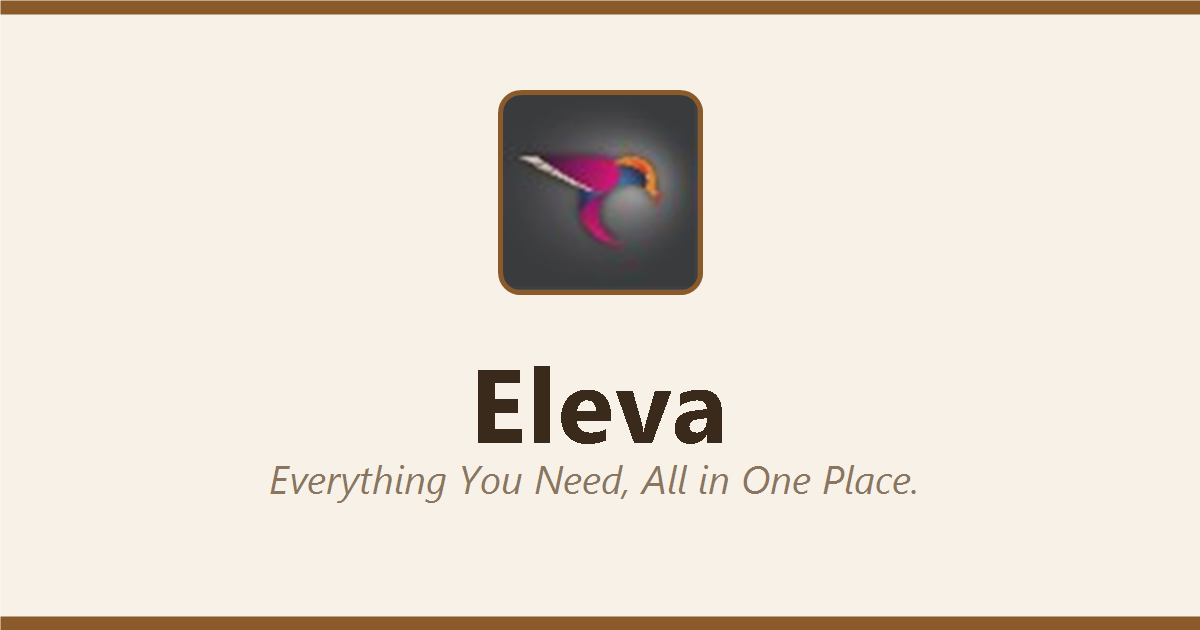
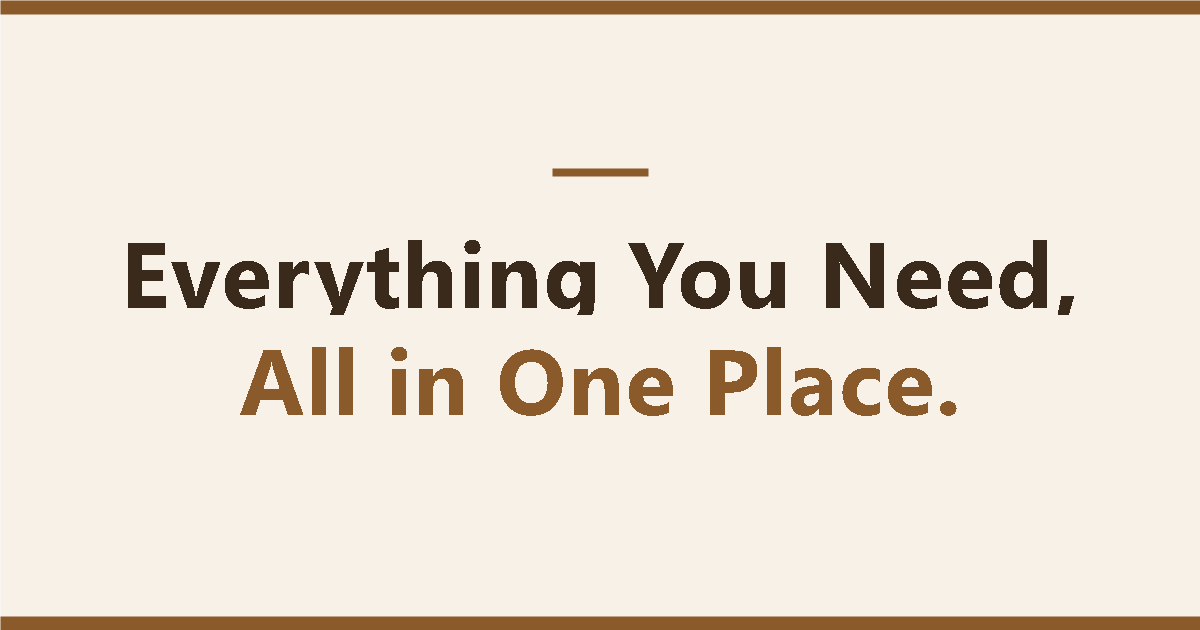
Redesign preview card: tagline only, split two lines, two-tone theme style
Drop the logo and store name from the shared-link card. It now shows just the tagline, split at the comma (or balanced across two lines), with the last line in the theme's accent color and an eyebrow bar - auto-fit to width. Both the dynamic generator and the static fallback og.png updated.

Changed region(s): [[0.0925, 0.1206, 0.8942, 0.5127], [0.185, 0.5429, 0.8017, 0.7841]]

diff --git a/src/lib/ogCard.ts b/src/lib/ogCard.ts
@@ -1,9 +1,9 @@
 // Shared-link preview card, generated in the browser so it always matches the
-// store's CURRENT theme + branding.
+// store's CURRENT theme + tagline.
 //
 // A static site can't render a per-store preview at request time (social
 // scrapers don't run JS), so instead the admin app draws a 1200×630 card on a
-// canvas whenever the theme/branding changes and uploads it to Supabase Storage
+// canvas whenever the theme/tagline changes and uploads it to Supabase Storage
 // at a STABLE path. The og:image meta tag (baked at build) points at that path,
 // so overwriting the file updates the preview everywhere without a rebuild.
 
@@ -20,34 +20,17 @@ export function ogCardUrl(supabaseUrl: string): string {
   return `${supabaseUrl.replace(/\/$/, '')}/storage/v1/object/public/${OG_BUCKET}/${OG_CARD_PATH}`;
 }
 
-function roundRectPath(ctx: CanvasRenderingContext2D, x: number, y: number, w: number, h: number, r: number) {
-  ctx.beginPath();
-  ctx.moveTo(x + r, y);
-  ctx.arcTo(x + w, y, x + w, y + h, r);
-  ctx.arcTo(x + w, y + h, x, y + h, r);
-  ctx.arcTo(x, y + h, x, y, r);
-  ctx.arcTo(x, y, x + w, y, r);
-  ctx.closePath();
-}
-
-// Load a (possibly cross-origin) image without tainting the canvas: we fetch the
-// bytes ourselves and decode from a blob. Returns null if it can't be loaded.
-async function loadBadge(url: string): Promise<CanvasImageSource | null> {
-  try {
-    const resp = await fetch(url, { mode: 'cors' });
-    if (!resp.ok) return null;
-    const blob = await resp.blob();
-    if (typeof createImageBitmap === 'function') return await createImageBitmap(blob);
-    return await new Promise((resolve) => {
-      const img = new Image();
-      const obj = URL.createObjectURL(blob);
-      img.onload = () => resolve(img);
-      img.onerror = () => resolve(null);
-      img.src = obj;
-    });
-  } catch {
-    return null;
+// Split a tagline into display lines: at commas (keeping the comma), otherwise
+// balance the words across two lines.
+function splitToLines(text: string): string[] {
+  if (text.includes(',')) {
+    const parts = text.split(',').map((s) => s.trim()).filter(Boolean);
+    return parts.map((p, i) => (i < parts.length - 1 ? `${p},` : p));
   }
+  const words = text.split(/\s+/).filter(Boolean);
+  if (words.length < 4) return [text];
+  const mid = Math.ceil(words.length / 2);
+  return [words.slice(0, mid).join(' '), words.slice(mid).join(' ')];
 }
 
 async function drawCard(settings: Settings): Promise<Blob | null> {
@@ -56,8 +39,6 @@ async function drawCard(settings: Settings): Promise<Blob | null> {
   const bg = v['--color-bg'];
   const primary = v['--color-primary'];
   const text = v['--color-text'];
-  const muted = v['--color-muted'];
-  const card = v['--color-card'];
 
   const canvas = document.createElement('canvas');
   canvas.width = 1200;
@@ -65,60 +46,48 @@ async function drawCard(settings: Settings): Promise<Blob | null> {
   const ctx = canvas.getContext('2d');
   if (!ctx) return null;
 
-  // Background + theme accent stripes.
+  // Background + thin theme accent stripes top & bottom.
   ctx.fillStyle = bg;
   ctx.fillRect(0, 0, 1200, 630);
   ctx.fillStyle = primary;
   ctx.fillRect(0, 0, 1200, 14);
   ctx.fillRect(0, 616, 1200, 14);
 
-  // Logo / favicon badge (centered near the top). Prefer the logo (usually
-  // larger and nicer on a card); fall back to the favicon.
-  const badgeUrl = settings.logo_url || settings.favicon_url;
-  let hasBadge = false;
-  if (badgeUrl) {
-    const img = await loadBadge(badgeUrl);
-    if (img) {
-      const bs = 200;
-      const bx = (1200 - bs) / 2;
-      const by = 92;
-      const r = 40;
-      roundRectPath(ctx, bx, by, bs, bs, r);
-      ctx.fillStyle = card;
-      ctx.fill();
-      ctx.save();
-      roundRectPath(ctx, bx, by, bs, bs, r);
-      ctx.clip();
-      // Contain-fit so a non-square logo isn't stretched.
-      const d = img as unknown as { width?: number; height?: number; naturalWidth?: number; naturalHeight?: number };
-      const iw = d.naturalWidth || d.width || bs;
-      const ih = d.naturalHeight || d.height || bs;
-      const pad = 16;
-      const scale = Math.min((bs - pad * 2) / iw, (bs - pad * 2) / ih);
-      const dw = iw * scale;
-      const dh = ih * scale;
-      ctx.drawImage(img, bx + (bs - dw) / 2, by + (bs - dh) / 2, dw, dh);
-      ctx.restore();
-      roundRectPath(ctx, bx, by, bs, bs, r);
-      ctx.lineWidth = 5;
-      ctx.strokeStyle = primary;
-      ctx.stroke();
-      hasBadge = true;
-    }
-  }
+  // Just the tagline — split into lines, rendered in a unique two-tone style.
+  const raw = (settings.tagline || settings.store_name || 'OPEN STORE').trim();
+  const lines = splitToLines(raw);
 
-  // Store name (theme text color) + tagline (theme muted color).
+  const maxWidth = 980;
+  const fontOf = (px: number) => `800 ${px}px system-ui, 'Segoe UI', Roboto, sans-serif`;
   ctx.textAlign = 'center';
-  ctx.fillStyle = text;
-  ctx.font = "700 78px system-ui, 'Segoe UI', Roboto, sans-serif";
-  ctx.fillText(settings.store_name || 'OPEN STORE', 600, hasBadge ? 400 : 330, 1080);
+  ctx.textBaseline = 'alphabetic';
 
-  const tag = (settings.tagline || '').trim();
-  if (tag) {
-    ctx.fillStyle = muted;
-    ctx.font = "italic 30px system-ui, 'Segoe UI', Roboto, sans-serif";
-    ctx.fillText(tag, 600, hasBadge ? 470 : 400, 1060);
+  // Auto-fit so the widest line stays within the card.
+  let fs = 96;
+  while (fs > 44) {
+    ctx.font = fontOf(fs);
+    const widest = Math.max(...lines.map((l) => ctx.measureText(l).width));
+    if (widest <= maxWidth) break;
+    fs -= 4;
   }
+  ctx.font = fontOf(fs);
+
+  const lineH = Math.round(fs * 1.16);
+  const blockH = lineH * lines.length;
+  const firstBaseline = Math.round((630 - blockH) / 2 + fs * 0.8);
+
+  // Eyebrow accent bar above the text.
+  const barW = 96;
+  const barH = 8;
+  ctx.fillStyle = primary;
+  ctx.fillRect((1200 - barW) / 2, firstBaseline - Math.round(fs * 0.8) - 46, barW, barH);
+
+  // Lines: last line in the theme's primary color for a stylish two-tone look.
+  lines.forEach((line, i) => {
+    ctx.font = fontOf(fs);
+    ctx.fillStyle = i === lines.length - 1 ? primary : text;
+    ctx.fillText(line, 600, firstBaseline + i * lineH, maxWidth + 40);
+  });
 
   return await new Promise<Blob | null>((resolve) => canvas.toBlob((b) => resolve(b), 'image/png'));
 }
@@ -144,7 +113,7 @@ export async function refreshOgCard(settings?: Settings): Promise<void> {
 }
 
 // Refresh the card at most once per page load — called when the admin opens the
-// panel, so the preview always reflects the current logo, theme and name pulled
+// panel, so the preview always reflects the current theme and tagline pulled
 // from storage, without the owner having to change anything.
 let didAutoRefresh = false;
 export async function autoRefreshOgCardOnce(): Promise<void> {